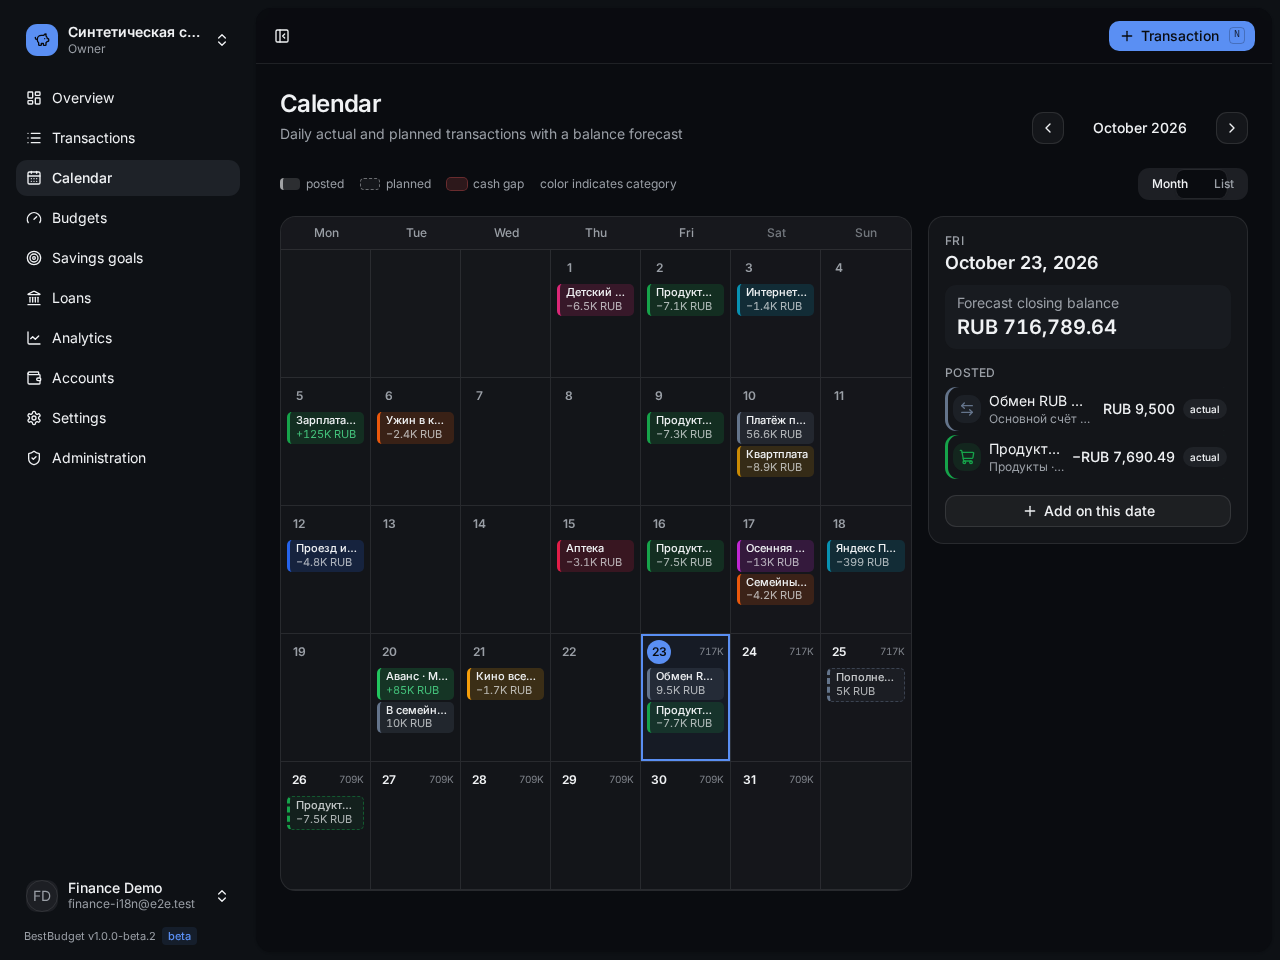
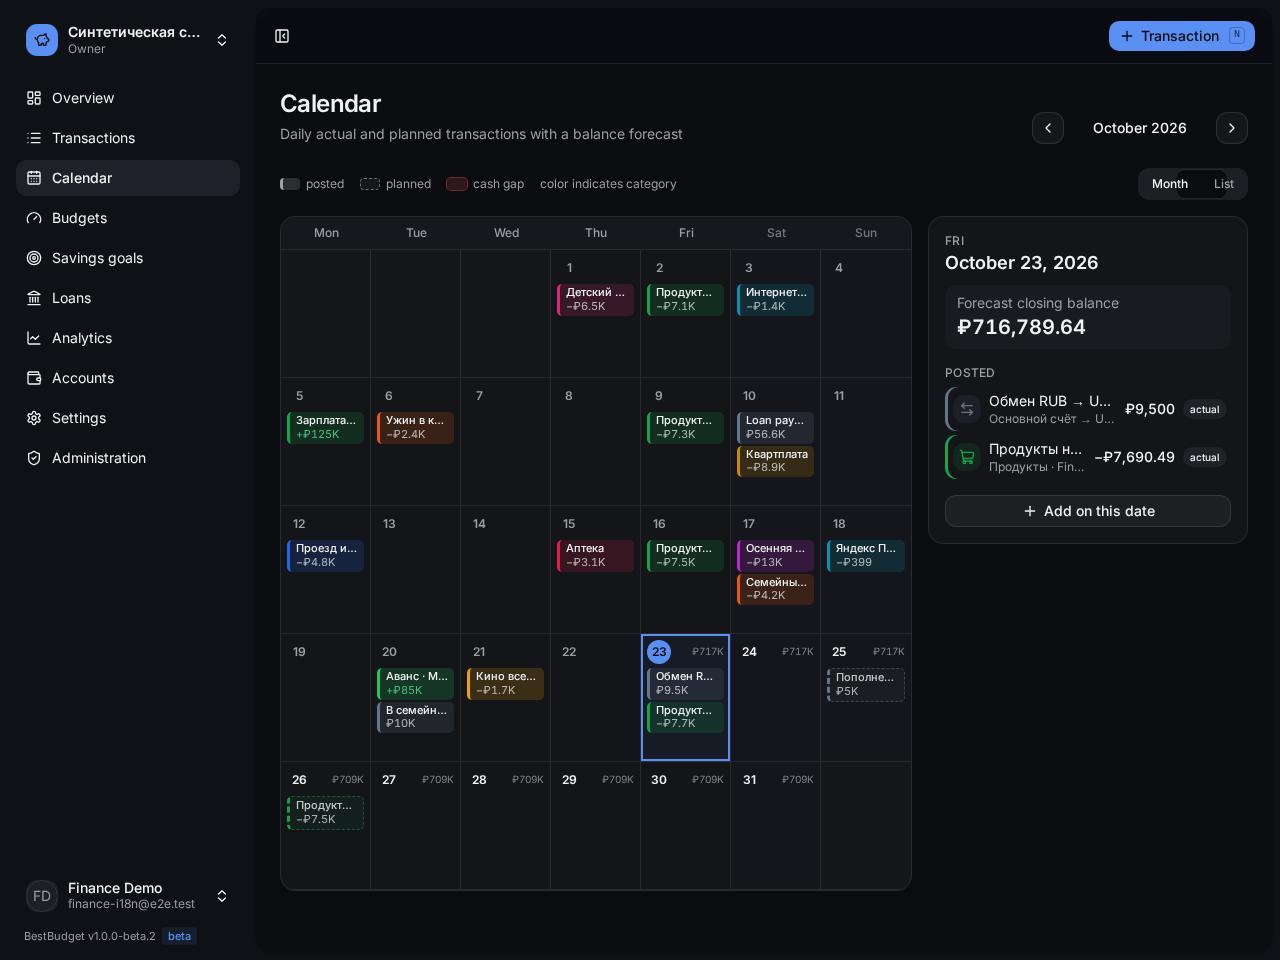
fix(i18n): localize compact currency symbols and verify cross-timezone views

diff --git a/e2e/finance-i18n.spec.ts b/e2e/finance-i18n.spec.ts
@@ -1,7 +1,7 @@
 import { execFileSync } from "node:child_process"
 import { mkdir, writeFile } from "node:fs/promises"
-import { expect, test, type Page } from "@playwright/test"
-import { E2E_ENV } from "../playwright.config"
+import { expect, test, type Page } from "./fixtures"
+import { BROWSER_TIMEZONE, E2E_ENV } from "../playwright.config"
 
 const demo = { name: "Finance Demo", email: "finance-i18n@e2e.test", password: "finance-demo-password-1" }
 const screenshotDir = "docs/screenshots/i18n/finance"
@@ -44,6 +44,7 @@ test("finance: ru/en seeded views, responsive themes, English transactions, recu
   page.on("pageerror", (error) => errors.push(error.message))
   page.on("console", (message) => { if (message.type() === "error") errors.push(message.text()) })
   await page.goto("/login")
+  expect(await page.evaluate(() => Intl.DateTimeFormat().resolvedOptions().timeZone)).toBe(BROWSER_TIMEZONE)
   await page.getByLabel("E-mail").fill(demo.email)
   await page.getByLabel("Пароль", { exact: true }).fill(demo.password)
   await page.getByRole("button", { name: "Войти", exact: true }).click()
@@ -74,10 +75,25 @@ test("finance: ru/en seeded views, responsive themes, English transactions, recu
             await expect.poll(() => period.evaluate((element) => element.parentElement!.scrollWidth - element.parentElement!.clientWidth)).toBeLessThanOrEqual(0)
             if (width === 375) await expect(page.getByRole("columnheader")).toHaveCount(0)
           }
+          if (width === 1280 && (route === "/dashboard" || route === "/analytics")) {
+            const chart = page.locator('[data-slot="chart"]').first()
+            await chart.hover({ position: { x: 150, y: 80 } })
+            const tooltip = chart.locator(".recharts-tooltip-wrapper")
+            await expect(tooltip).toBeVisible()
+            await expect(tooltip).toContainText("₽")
+            await expect(tooltip).not.toContainText("RUB")
+            await page.mouse.move(0, 0)
+          }
           audit.push({ locale, theme, width, route })
           const slug = route.replaceAll(/[/?=]/g, "-")
           await page.screenshot({ path: testInfo.outputPath(`${locale}-${theme}-${width}${slug}.png`), fullPage: true, animations: "disabled" })
           if (route === "/calendar") {
+            // Every displayed short amount includes its currency, including forecast balances.
+            await expect(page.locator('button[title]').filter({ hasText: locale === "ru" ? /тыс\./ : /K/ }).first()).toContainText("₽")
+            if (locale === "en") {
+              await expect(page.getByRole("main").last().locator(".tabular").filter({ hasText: /RUB/ })).toHaveCount(0)
+              await expect(page.locator('span[title="Forecast closing balance"]').first()).toContainText(/₽/)
+            }
             await expect(page.getByText(locale === "ru" ? "пн" : "Mon", { exact: true }).first()).toBeVisible()
             await page.getByRole("radio", { name: locale === "ru" ? "Список" : "List", exact: true }).click()
             await fits(page)
@@ -87,7 +103,7 @@ test("finance: ru/en seeded views, responsive themes, English transactions, recu
           }
           if (locale === "en" && width === 1280 && theme === "light" && route === "/dashboard") {
             const balance = page.getByTestId("actual-balance").locator("span[aria-label]").first()
-            await expect(balance).toHaveAttribute("aria-label", /RUB/)
+            await expect(balance).toHaveAttribute("aria-label", /₽/)
             await expect(balance).toHaveText((await balance.getAttribute("aria-label"))!)
             await page.screenshot({ path: `${screenshotDir}/dashboard-en-desktop-light.png`, fullPage: true, animations: "disabled" })
           }
@@ -134,7 +150,7 @@ test("finance: ru/en seeded views, responsive themes, English transactions, recu
   await dialog.getByLabel("Actual amount", { exact: true }).fill("15.67")
   await dialog.getByRole("button", { name: "Confirm", exact: true }).click()
   await expect(dialog).toBeHidden()
-  await expect(row).toContainText("RUB 15.67")
+  await expect(row).toContainText("₽15.67")
   await expect(row).not.toContainText("planned")
 
   await page.getByRole("button", { name: "Transaction", exact: true }).first().click()

diff --git a/src/components/app/calendar-view.tsx b/src/components/app/calendar-view.tsx
@@ -14,8 +14,7 @@ import { Segmented } from "@/components/app/segmented"
 import { Badge } from "@/components/ui/badge"
 import { Button } from "@/components/ui/button"
 import { formatDateFull, formatDay, formatWeekday, weekday, type IsoDate } from "@/lib/dates"
-import { currencySymbol } from "@/lib/currencies"
-import { formatMoney, formatMoneyShort } from "@/lib/money"
+import { formatMoney, formatMoneyShortWithCurrency } from "@/lib/money"
 import { cn } from "@/lib/utils"
 
 export interface CalendarDay {
@@ -234,7 +233,7 @@ function DayCell({
             className={cn("tabular hidden truncate pt-1 text-[10px] sm:block", negative ? "font-semibold text-destructive" : "text-muted-foreground/80")}
             title={t("forecastEndOfDay")}
           >
-            {formatMoneyShort(day.balance, currency, locale)}
+            {formatMoneyShortWithCurrency(day.balance, currency, locale)}
           </span>
         ) : null}
       </div>
@@ -251,7 +250,7 @@ function DayCell({
           ))}
         </div>
       ) : null}
-      {negative ? <span className="mt-auto truncate text-[10px] font-semibold text-destructive tabular sm:hidden">{formatMoneyShort(day.balance, currency, locale)}</span> : null}
+      {negative ? <span className="mt-auto truncate text-[10px] font-semibold text-destructive tabular sm:hidden">{formatMoneyShortWithCurrency(day.balance, currency, locale)}</span> : null}
 
       {/* Larger screens: event chips, like meetings in a calendar. */}
       <div className="hidden min-w-0 flex-col gap-0.5 sm:flex">
@@ -282,7 +281,7 @@ function EventChip({ entry: e, overdue, onOpen }: { entry: CalendarEntry; overdu
     <button
       type="button"
       onClick={onOpen}
-      title={`${e.title}: ${sign}${formatMoneyShort(e.amount, e.currency, locale)} ${currencySymbol(e.currency, locale)}${planned ? t("plannedSuffix") : ""}`}
+      title={`${e.title}: ${sign}${formatMoneyShortWithCurrency(e.amount, e.currency, locale)}${planned ? t("plannedSuffix") : ""}`}
       className={cn(
         "flex min-w-0 flex-col rounded-[5px] border-l-[3px] px-1.5 py-0.5 text-left text-[11px] leading-tight transition-[filter] hover:brightness-95 dark:hover:brightness-125",
         planned && "border border-l-[3px] border-dashed",
@@ -297,7 +296,7 @@ function EventChip({ entry: e, overdue, onOpen }: { entry: CalendarEntry; overdu
       <span className={cn("truncate font-medium", planned && "text-foreground/80")}>{e.title}</span>
       <span className={cn("tabular truncate", e.type === "income" ? "text-income" : "text-foreground/70")}>
         {sign}
-        {formatMoneyShort(e.amount, e.currency, locale)} {currencySymbol(e.currency, locale)}
+        {formatMoneyShortWithCurrency(e.amount, e.currency, locale)}
       </span>
     </button>
   )

diff --git a/src/lib/money.test.ts b/src/lib/money.test.ts
@@ -1,5 +1,5 @@
 import { describe, expect, it } from "vitest"
-import { formatMoney, formatMoneyCompact, formatMoneyShort, minorToInput, parseMoney } from "./money"
+import { formatMoney, formatMoneyCompact, formatMoneyShort, formatMoneyShortWithCurrency, minorToInput, parseMoney } from "./money"
 import { currencySymbol } from "./currencies"
 import { addMonths, todayIn } from "./dates"
 
@@ -102,5 +102,21 @@ describe("narrow currency symbols", () => {
     expect(plain(formatMoneyCompact(450_000_000, "RUB", "ru"))).toBe("4,5 млн")
     expect(formatMoneyShort(1_250_000, "USD", "en")).toBe("12.5K")
     expect(formatMoneyShort(1_250_000, "USD", "ru")).toBe("12,5к")
+  })
+})
+
+describe("formatMoneyShortWithCurrency", () => {
+  it.each([
+    ["RUB", -650_000, "−6,5 тыс. ₽", "−₽6.5K"],
+    ["USD", 120_000, "1,2 тыс. $", "$1.2K"],
+    ["RUB", 71_678_964, "717 тыс. ₽", "₽717K"],
+    ["EUR", -120_000_000, "−1,2 млн €", "−€1.2M"],
+    ["JPY", 1200, "1,2 тыс. ¥", "¥1.2K"],
+    ["BHD", 1_200_000, "1,2 тыс. BHD", "BHD 1.2K"],
+    ["RUB", 0, "0 ₽", "₽0"],
+    ["USD", -1234, "−12 $", "−$12"],
+  ] as const)("formats %s %s with localized symbols, signs and currency exponents", (currency, minor, ru, en) => {
+    expect(formatMoneyShortWithCurrency(minor, currency, "ru").replace(/\s/g, " ")).toBe(ru)
+    expect(formatMoneyShortWithCurrency(minor, currency, "en").replace(/\s/g, " ")).toBe(en)
   })
 })

diff --git a/src/lib/money.ts b/src/lib/money.ts
@@ -84,3 +84,17 @@ export function formatMoneyShort(minor: number, currency = "RUB", locale = "ru")
   const number = new Intl.NumberFormat(locale, { useGrouping: false, maximumFractionDigits: digits }).format(amount / scale)
   return `${minor < 0 ? "−" : ""}${number}${scale === 1 ? "" : scale === 1000 ? labels.thousand : labels.million}`
 }
+
+/** Compact currency labels use localized symbols and round to whole major units. */
+export function formatMoneyShortWithCurrency(minor: number, currency = "RUB", locale = "ru"): string {
+  const amount = Math.round(Math.abs(minor) / 10 ** currencyExponent(currency))
+  const text = new Intl.NumberFormat(locale, {
+    style: "currency",
+    currency,
+    currencyDisplay: "narrowSymbol",
+    notation: "compact",
+    minimumFractionDigits: 0,
+    maximumFractionDigits: amount < 1000 || (amount >= 100_000 && amount < 1_000_000) ? 0 : 1,
+  }).format(amount)
+  return `${minor < 0 ? "−" : ""}${text}`
+}

diff --git a/src/components/app/animated-money.tsx b/src/components/app/animated-money.tsx
@@ -25,7 +25,7 @@ export function AnimatedMoney({
   const resolved = tone === "auto" ? (value > 0 ? "income" : value < 0 ? "expense" : "neutral") : tone
   const exponent = currencyExponent(currency)
   const scale = 10 ** exponent
-  const parts = new Intl.NumberFormat(locale, { style: "currency", currency }).formatToParts(1234.5)
+  const parts = new Intl.NumberFormat(locale, { style: "currency", currency, currencyDisplay: "narrowSymbol" }).formatToParts(1234.5)
   const firstNumber = parts.findIndex((part) => part.type === "integer")
   const lastNumber = parts.findLastIndex((part) => part.type === "integer" || part.type === "fraction")
   const prefix = parts.slice(0, firstNumber).map((part) => part.value).join("")

diff --git a/src/lib/fx-display.test.ts b/src/lib/fx-display.test.ts
@@ -51,7 +51,7 @@ describe("current balance valuation", () => {
 
 describe("English FX labels", () => {
   it("uses decimal dots and English rate provenance", () => {
-    expect(formatExchangeRate(9500_00, 100_00, "RUB", "USD", "en")).toBe("1 USD = 95.00 RUB")
+    expect(formatExchangeRate(9500_00, 100_00, "RUB", "USD", "en")).toBe("1 USD = 95.00 ₽")
     expect(formatQuotedRate(rates, "EUR", "USD", "en")).toBe("1 EUR = 1.08 USD")
     expect(formatRateSource(rates.slice(0, 2), "en")).toBe("CBR rate on October 20")
     expect(balanceValuation(rates, ["USD"], "RUB", "2026-10-28", "en")).toEqual({

diff --git a/src/domain/import/profiles.ts b/src/domain/import/profiles.ts
@@ -54,7 +54,6 @@ const exportedEn = {
 const isEnglishExport = (headers: string[]) =>
   [exportedEn.type, exportedEn.title, exportedEn.toAccount].every((name) => headers.some((h) => normalizeHeader(h) === normalizeHeader(name)))
 
-
 export function profileMapping(id: string, headers: string[]): ColumnMapping {
   const exportAliases = isEnglishExport(headers) ? exportedEn : exported
   const aliases: Partial<Record<keyof ColumnMapping["columns"], string>> =

diff --git a/docs/i18n.md b/docs/i18n.md
@@ -54,6 +54,7 @@ Hooks вызываются только в компонентах/hooks. В чи
 formatMoney(amount, currency, { locale, sign: true })
 formatMoneyCompact(amount, currency, locale)
 formatMoneyShort(amount, currency, locale)
+formatMoneyShortWithCurrency(amount, currency, locale)
 minorToInput(amount, currency, locale)
 formatDateFull(date, locale)
 formatDay(date, locale)
@@ -68,6 +69,8 @@ new Intl.NumberFormat(locale).format(count)
 В клиенте берите `locale` из `useLocale()`, на сервере — из `getLocale()`. В сервис/домен передавайте локаль из вызывающего слоя: фоновые задания не имеют HTTP-запроса. Старые вызовы пока сохраняют default `ru` для совместимости; **при переводе каждой области фазы 2 замените все вызовы форматирования на явную активную локаль**, включая графики, подписи осей, всплывающие подсказки, сортировку и относительные даты. Не передавайте функцию форматирования напрямую в callback с индексом: `tickFormatter={(date) => formatMonth(date, locale)}`.
 
 ISO-даты остаются `YYYY-MM-DD`. Форматирование календарных дат использует UTC, «сегодня» — часовой пояс семьи (`todayIn`), независимо от языка браузера. Календарь `DateField` переключает также подписи и aria-labels react-day-picker. Валютный символ получается из Intl, включая `MoneyInput` и `CurrencySelect`.
+
+Короткие суммы с валютой форматирует `formatMoneyShortWithCurrency`: `−₽6.5K` / `$1.2K` для en и `−6,5 тыс. ₽` для ru. Он использует `Intl` с `narrowSymbol`, сохраняет расположение знака валюты по локали и округление до целых основных единиц. Числовые подписи осей могут использовать `formatMoneyCompact` без валюты; tooltip показывает полную сумму через `formatMoney`.
 
 ### Часовой пояс и гидрация
 
@@ -131,19 +134,19 @@ Vitest фиксирует `Date` перед каждым тестом через
 
 Переведены обзор, календарь (сетка и список), бюджеты, аналитика, операции, регулярные расписания, формы создания/подтверждения/редактирования, графики и FX-предупреждения. Словари: `dashboard`, `calendar`, `budgets`, `analytics`, `transactions`, `recurring`, `charts`. Скриншоты английского seed-демо: [обзор](screenshots/i18n/finance/dashboard-en-desktop-light.png), [календарь](screenshots/i18n/finance/calendar-en-desktop-dark.png), [форма регулярной операции, 375px](screenshots/i18n/finance/recurring-en-375-dark.png).
 
-`e2e/finance-i18n.spec.ts` проверяет 6 маршрутов на seed-демо в ru/en × 1280/375 × light/dark, список календаря и форму расписания, создание/подтверждение операции, лимит бюджета и оба формата CSV. Карточки кредитов и целей внутри обзора относятся к отдельной области фазы 2; сохранённые seed-названия остаются русскими.
+`e2e/finance-i18n.spec.ts` проверяет 6 маршрутов на seed-демо в ru/en × 1280/375 × light/dark, список календаря и форму расписания, создание/подтверждение операции, лимит бюджета и оба формата CSV. Сервер работает в UTC, браузер — Asia/Vladivostok; общая fixture проверяет отсутствие ошибок гидрации. Сохранённые seed-названия остаются русскими.
 
 ### Что осталось для фазы 2
 
 | Область | Основные файлы |
 |---|---|
-| Счета, кредиты и цели | `src/app/(app)/{accounts,loans,goals}/**`, `src/components/app/accounts-view.tsx`, `src/components/app/{loans,goals}/*`, label-справочники в `src/domain/{defaults,loan,goals}.ts`, предупреждения и генерируемые названия в сервисах |
-| Импорт | `src/components/app/import/*`, `src/app/(app)/transactions/import/page.tsx`, `src/domain/import/*`, предупреждения/кандидаты/названия в `src/server/services/imports.ts` |
+| Счета, кредиты и цели | Переведено в PR #21; namespace `accounts`/`loans`/`goals` |
+| Импорт | Переведено в PR #21; namespace `import`, обратный импорт локализованного экспорта — в финансовой области |
 | Администрирование | Переведено в фазе 2 C: все шесть вкладок, подписи статусов/проверок и metadata; namespace `admin` |
 | Фоновые уведомления | Переведено в фазе 2 C: уведомления, команды и кнопки Telegram, тестовые сообщения и почта; namespace `notifications`/`mail`, локаль получателя из профиля |
-| Остальные общие подписи | `src/components/app/month-switcher.tsx`, `src/components/app/operations/types.ts`, графики, CSV export metadata, label-справочники; при переносе проверять все вызовы `format*`, `toLocale*` и `Intl(..."ru-RU")` |
+| Финансовые экраны и общие подписи | Переведены в финансовой области; графики, операции, регулярные расписания, CSV, переключатель месяца |
 
-Серверные `AppError`, CSV-ошибки чтения и Zod-сообщения уже переведены централизованно; не дублируйте их в словарях экранов. Предупреждения импорта и фоновые сообщения относятся к отдельным областям фазы 2.
+Серверные `AppError`, CSV-ошибки чтения и Zod-сообщения уже переведены централизованно; не дублируйте их в словарях экранов. Предупреждения импорта и фоновые сообщения переведены в соответствующих областях фазы 2.
 
 ## Новый язык
 

diff --git a/CHANGELOG.md b/CHANGELOG.md
@@ -6,6 +6,8 @@
 
 ### Изменено
 
+- Короткие суммы календаря показывают символ валюты по локали (`−₽6.5K` / `−6,5 тыс. ₽`); анимированный баланс использует те же узкие символы, что остальные суммы.
+
 - Helm: `backup.enabled` теперь по умолчанию `false` — **при обновлении задайте `backup.enabled=true` явно, если пользуетесь встроенными бэкапами**.
 - Compose: переменная `BACKUP_ENABLED` (по умолчанию `true`) позволяет выключить автоматические дампы; контейнер остаётся healthy, ручные команды бэкапа и восстановления доступны.
 
